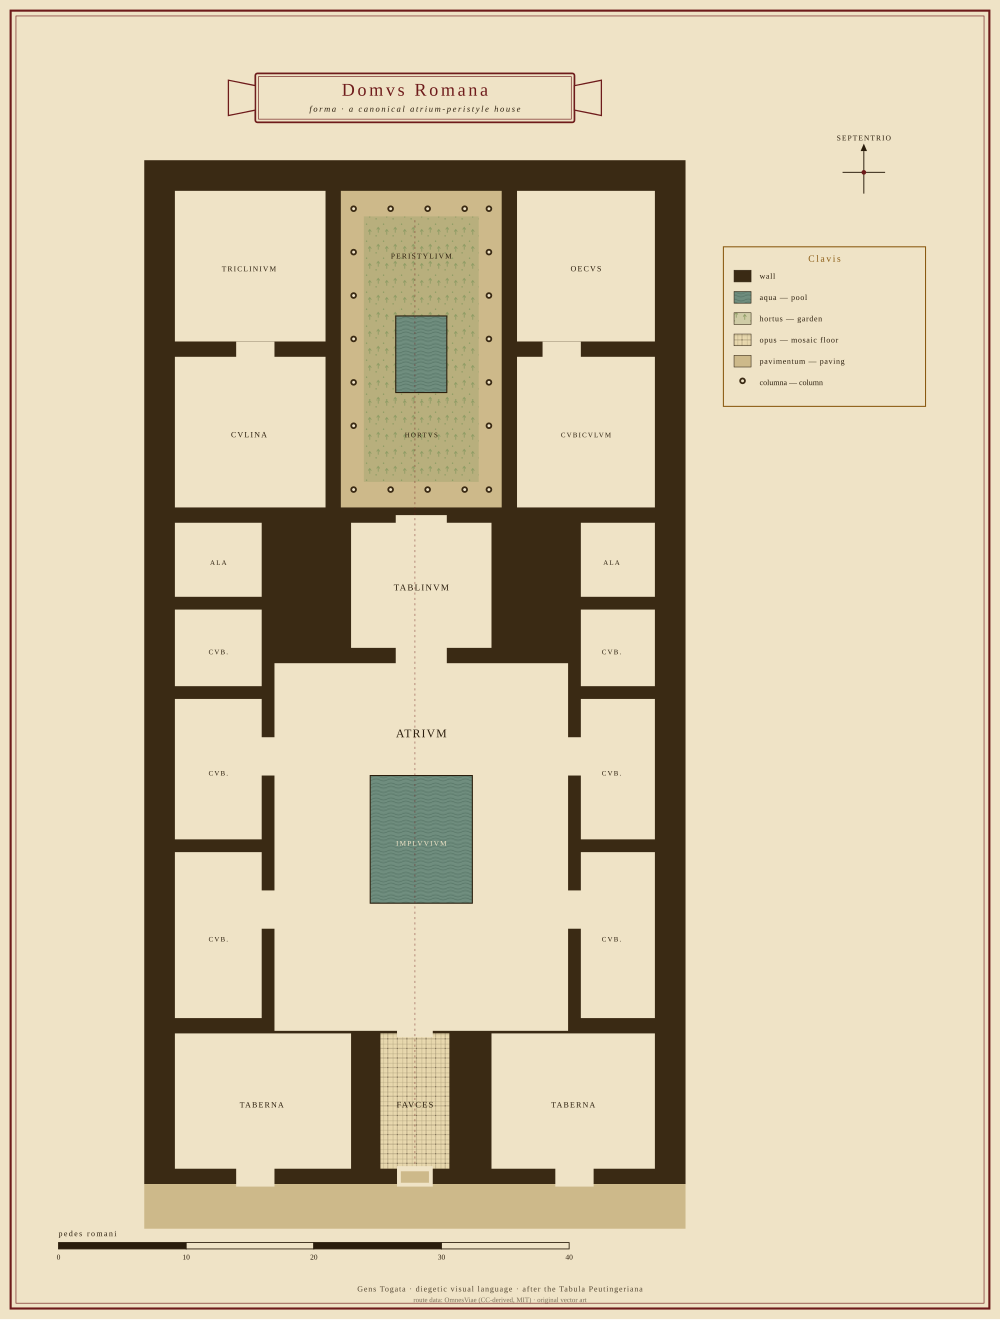
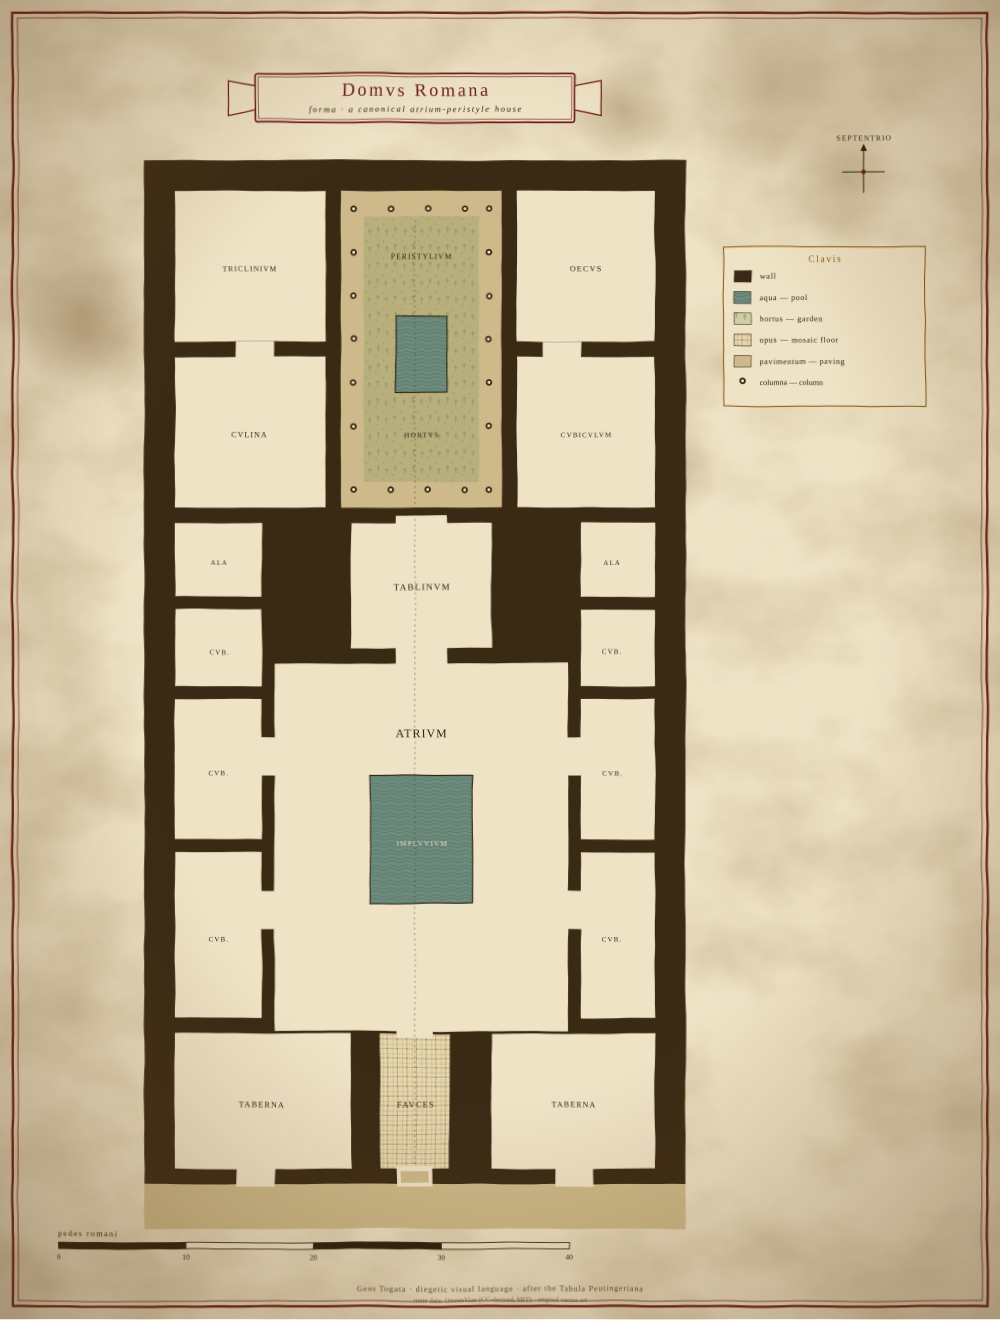
diegetic aging: hand-inked wobble + aged parchment
Make the visual language look drawn-by-hand on old parchment instead of
vector-perfect. Baked into romanplan.page() so every artifact inherits it:
- feDisplacementMap(fractalNoise) wobble on all ink (rough / roughmap filters)
- mottled parchment (feColorMatrix noise), random stain blobs, darkened aged
  edges (radial 'age' vignette)
draw_via now routes through page() too. Regenerated domus/via.

diff --git a/tools/romanplan.py b/tools/romanplan.py
@@ -47,7 +47,40 @@ def defs():
   <g id="columna">
     <circle r="3.1" fill="{POCHE}"/><circle r="1.4" fill="{PARCH}"/>
   </g>
+  <filter id="rough" x="-4%" y="-4%" width="108%" height="108%">
+    <feTurbulence type="fractalNoise" baseFrequency="0.013 0.017" numOctaves="3" seed="11" result="n"/>
+    <feDisplacementMap in="SourceGraphic" in2="n" scale="2.6" xChannelSelector="R" yChannelSelector="G"/>
+  </filter>
+  <filter id="roughmap" x="-4%" y="-4%" width="108%" height="108%">
+    <feTurbulence type="fractalNoise" baseFrequency="0.016 0.02" numOctaves="3" seed="5" result="n"/>
+    <feDisplacementMap in="SourceGraphic" in2="n" scale="3.1" xChannelSelector="R" yChannelSelector="G"/>
+  </filter>
+  <filter id="mottle">
+    <feTurbulence type="fractalNoise" baseFrequency="0.009 0.013" numOctaves="4" seed="8" result="t"/>
+    <feColorMatrix in="t" type="matrix" values="0 0 0 0 0.42  0 0 0 0 0.31  0 0 0 0 0.15  0 0 0 1.4 -0.55"/>
+  </filter>
+  <radialGradient id="age" cx="50%" cy="46%" r="75%">
+    <stop offset="50%" stop-color="#6e4a1b" stop-opacity="0"/>
+    <stop offset="100%" stop-color="#4e3312" stop-opacity="0.44"/>
+  </radialGradient>
+  <radialGradient id="stain" cx="50%" cy="50%" r="50%">
+    <stop offset="0%" stop-color="#6b4a1e" stop-opacity="0.26"/>
+    <stop offset="65%" stop-color="#6b4a1e" stop-opacity="0.09"/>
+    <stop offset="100%" stop-color="#6b4a1e" stop-opacity="0"/>
+  </radialGradient>
 </defs>"""
+
+
+def stainblobs(w, h, seed=42, n=8):
+    import random
+    rnd = random.Random(seed)
+    out = []
+    for _ in range(n):
+        cx = rnd.uniform(0.06, 0.94) * w
+        cy = rnd.uniform(0.06, 0.94) * h
+        r = rnd.uniform(0.035, 0.10) * min(w, h)
+        out.append(f'<circle cx="{cx:.0f}" cy="{cy:.0f}" r="{r:.0f}" fill="url(#stain)"/>')
+    return "\n".join(out)
 
 
 def X(p, x0): return x0 + p * PES
@@ -166,11 +199,15 @@ def groma(cx, cy, r=18):
     return "\n".join(s)
 
 
-def page(w, h, inner):
+def page(w, h, inner, rough="rough"):
+    border = (f'<rect x="12" y="12" width="{w-24}" height="{h-24}" fill="none" '
+              f'stroke="{ACCENT}" stroke-width="2.2"/>'
+              f'<rect x="17" y="17" width="{w-34}" height="{h-34}" fill="none" '
+              f'stroke="{ACCENT}" stroke-width="0.7"/>')
     return (f'<svg xmlns="http://www.w3.org/2000/svg" viewBox="0 0 {w} {h}" '
             f'width="{w}" height="{h}">\n{defs()}\n'
             f'<rect width="{w}" height="{h}" fill="{PARCH}"/>\n'
-            f'<rect x="10" y="10" width="{w-20}" height="{h-20}" fill="none" '
-            f'stroke="{ACCENT}" stroke-width="2"/>\n'
-            f'<rect x="15" y="15" width="{w-30}" height="{h-30}" fill="none" '
-            f'stroke="{ACCENT}" stroke-width="0.6"/>\n{inner}\n</svg>')
+            f'<rect width="{w}" height="{h}" filter="url(#mottle)" opacity="0.5"/>\n'
+            f'{stainblobs(w, h)}\n'
+            f'<g filter="url(#{rough})">\n{border}\n{inner}\n</g>\n'
+            f'<rect width="{w}" height="{h}" fill="url(#age)"/>\n</svg>')

diff --git a/tools/draw_via.py b/tools/draw_via.py
@@ -88,9 +88,6 @@ def twin_tower(x, y, big=False):
     return "\n".join(g)
 
 parts = []
-parts.append(f'<rect width="{W}" height="{H}" fill="{PARCH}"/>')
-parts.append(f'<rect x="10" y="10" width="{W-20}" height="{H-20}" fill="none" stroke="{ACCENT}" stroke-width="2"/>')
-parts.append(f'<rect x="15" y="15" width="{W-30}" height="{H-30}" fill="none" stroke="{ACCENT}" stroke-width="0.6"/>')
 # title
 parts.append(f'<text x="{W/2}" y="46" font-family="{SERIF}" font-size="16" fill="{ACCENT}" '
              f'text-anchor="middle" letter-spacing="2.5" style="text-transform:uppercase">Itinerarivm</text>')
@@ -133,7 +130,6 @@ parts.append(f'<text x="{W/2}" y="{H-24}" font-family="{SERIF}" font-size="7.5" 
 parts.append(f'<text x="{W/2}" y="{H-13}" font-family="{SERIF}" font-size="6.5" fill="{INK}" '
              f'text-anchor="middle" opacity="0.6">data: OmnesViae \u00a9 Ren\u00e9 Voorburg (MIT) \u00b7 Gens Togata diegetic visual language</text>')
 
-svg = (f'<svg xmlns="http://www.w3.org/2000/svg" viewBox="0 0 {W} {H}" width="{W}" height="{H}">\n'
-       f'{R.defs()}\n' + "\n".join(parts) + "\n</svg>")
+svg = R.page(W, H, "\n".join(parts), rough="roughmap")
 open(os.path.join(HERE, "..", "via.svg"), "w").write(svg)
 print("wrote via.svg")
